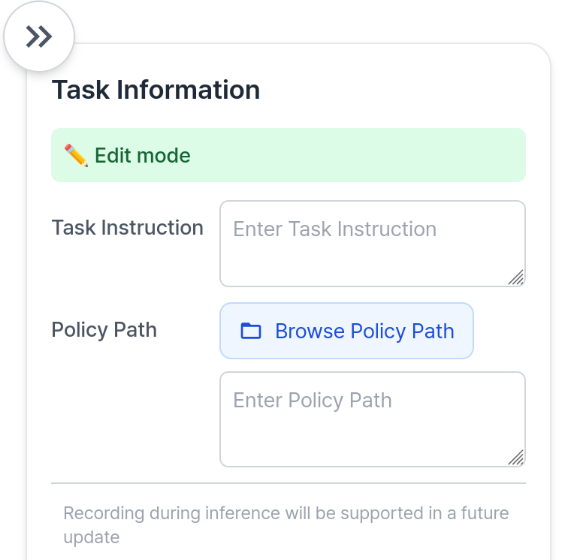
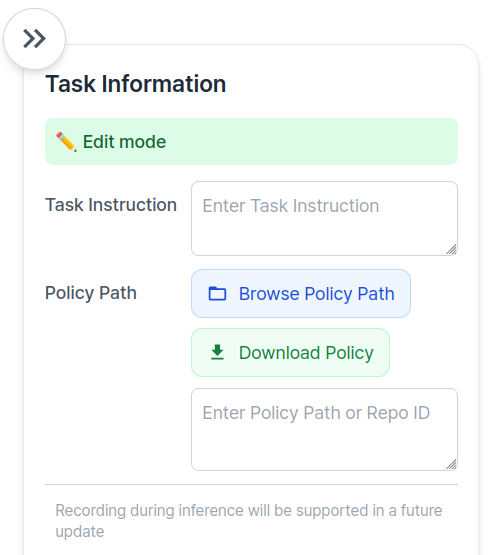
Add a guide for downloading a model from HF in Inference page

diff --git a/docs/ai_worker/model_inference_ai_worker.md b/docs/ai_worker/model_inference_ai_worker.md
@@ -6,13 +6,26 @@ Once your model is trained, you can deploy it on the AI Worker for inference.
 
 ### 1. Prepare Your Model
 
-`ROBOT PC`
+Choose one of the following methods.
+
+**`Option 1)` Download your model from Hugging Face**
+
+You can download a policy model from Hugging Face. 
+Detailed steps are provided [below](#download-policy-model).
+
+You can proceed to the next step: 👉 [2. Launch the ROS 2 Follower Node](#_2-launch-the-ros-2-follower-node)
+
+**`Option 2)` Manually copy your model to the target directory**
+
 
 Please place your trained model in the following directory:
 
+`ROBOT PC`
+
 `~/physical_ai_tools/lerobot/outputs/train/`
 
-Models trained on the Robot PC using Physical AI Tools are automatically saved to this path. However, if you downloaded the model from a hub or copied it from another PC, you need to move the model to this location. 
+Models trained on the Robot PC using Physical AI Tools are automatically saved to this path. 
+However, if you downloaded the model from a hub(without Physical AI Tools) or copied it from another PC, you need to move the model to this location. 
 
 
 ::: details Available Folder Structures
@@ -152,6 +165,33 @@ You can either click the `Browse Policy Path` button to select the desired model
 <img src="/imitation_learning/web_ui/inference/browse_button.png" alt="Web UI" style="width: 30%; ">
 <br>
 <img src="/imitation_learning/web_ui/inference/file_browser.png" alt="Web UI" style="width: 100%; ">
+:::
+
+<a id="download-policy-model"></a>
+::: tip
+**Download Policy Model from Hugging Face**
+
+You can download your model from Hugging Face. 
+
+Click the `Download Policy` button to open a popup for downloading a policy model. 
+
+  <img src="/imitation_learning/web_ui/inference/download_policy_button.png" alt="Web UI" style="width: 50%; ">
+  <br>
+  <img src="/imitation_learning/web_ui/inference/download_policy_modal.png" alt="Web UI" style="width: 70%; ">
+
+Select the Hugging Face User ID and enter the repository to download. 
+
+Click the `Download` button to start the download. A progress indicator will be displayed. 
+
+When the download completes, click `Finish` to close the popup. 
+
+The downloaded model path is automatically filled into Policy Path. 
+
+  <img src="/imitation_learning/web_ui/inference/downloaded_path_filled.png" alt="Web UI" style="width: 30%; ">
+
+
+💡 **Note — Progress indicator**: Progress is measured by the number of files completed. Policy models often include only a few very large files, so the progress bar may remain unchanged for a while.
+
 :::
 
 ::: info

diff --git a/docs/omx/model_inference_omx.md b/docs/omx/model_inference_omx.md
@@ -19,9 +19,20 @@ If you haven't set up the Physical AI Tools Docker container, please refer to th
 
 ### 2. Prepare Your Model
 
-`USER PC`
+Choose one of the following methods.
+
+**`Option 1)` Download your model from Hugging Face**
+
+You can download a policy model from Hugging Face. 
+Detailed steps are provided [below](#download-policy-model)
+
+You can proceed to the next step: 👉 [3. Bring up the OMX Follower Node](#_3-bring-up-the-omx-follower-node)
+
+**`Option 2)` Manually copy your model to the target directory**
 
 Please place your trained model in the following directory:
+
+`USER PC`
 
 `<your_workspace>/physical_ai_tools/lerobot/outputs/train/`
 
@@ -144,6 +155,33 @@ You can either click the `Browse Policy Path` button to select the desired model
 <img src="/imitation_learning/web_ui/inference/browse_button.png" alt="Web UI" style="width: 30%; ">
 <br>
 <img src="/imitation_learning/web_ui/inference/file_browser.png" alt="Web UI" style="width: 100%; ">
+:::
+
+<a id="download-policy-model"></a>
+::: tip
+**Download Policy Model from Hugging Face**
+
+You can download your model from Hugging Face. 
+
+Click the `Download Policy` button to open a popup for downloading a policy model. 
+
+  <img src="/imitation_learning/web_ui/inference/download_policy_button.png" alt="Web UI" style="width: 50%; ">
+  <br>
+  <img src="/imitation_learning/web_ui/inference/download_policy_modal.png" alt="Web UI" style="width: 70%; ">
+
+Select the Hugging Face User ID and enter the repository to download. 
+
+Click the `Download` button to start the download. A progress indicator will be displayed. 
+
+When the download completes, click `Finish` to close the popup. 
+
+The downloaded model path is automatically filled into Policy Path. 
+
+  <img src="/imitation_learning/web_ui/inference/downloaded_path_filled.png" alt="Web UI" style="width: 30%; ">
+
+
+💡 **Note — Progress indicator**: Progress is measured by the number of files completed. Policy models often include only a few very large files, so the progress bar may remain unchanged for a while.
+
 :::
 
 ::: info

diff --git a/docs/omy/model_inference_omy.md b/docs/omy/model_inference_omy.md
@@ -15,9 +15,20 @@ If you haven't set up the Physical AI Tools Docker container, please refer to th
 
 ### 2. Prepare Your Model
 
-`USER PC`
+Choose one of the following methods.
+
+**`Option 1)` Download your model from Hugging Face**
+
+You can download a policy model from Hugging Face. 
+Detailed steps are provided [below](#download-policy-model)
+
+You can proceed to the next step: 👉 [3. Bring up OMY Follower Node](#_3-bring-up-omy-follower-node)
+
+**`Option 2)` Manually copy your model to the target directory**
 
 Please place your trained model in the following directory:
+
+`USER PC`
 
 `<your_workspace>/physical_ai_tools/lerobot/outputs/train/`
 
@@ -140,6 +151,33 @@ You can either click the `Browse Policy Path` button to select the desired model
 <img src="/imitation_learning/web_ui/inference/browse_button.png" alt="Web UI" style="width: 30%; ">
 <br>
 <img src="/imitation_learning/web_ui/inference/file_browser.png" alt="Web UI" style="width: 100%; ">
+:::
+
+<a id="download-policy-model"></a>
+::: tip
+**Download Policy Model from Hugging Face**
+
+You can download your model from Hugging Face. 
+
+Click the `Download Policy` button to open a popup for downloading a policy model. 
+
+  <img src="/imitation_learning/web_ui/inference/download_policy_button.png" alt="Web UI" style="width: 50%; ">
+  <br>
+  <img src="/imitation_learning/web_ui/inference/download_policy_modal.png" alt="Web UI" style="width: 70%; ">
+
+Select the Hugging Face User ID and enter the repository to download. 
+
+Click the `Download` button to start the download. A progress indicator will be displayed. 
+
+When the download completes, click `Finish` to close the popup. 
+
+The downloaded model path is automatically filled into Policy Path. 
+
+  <img src="/imitation_learning/web_ui/inference/downloaded_path_filled.png" alt="Web UI" style="width: 30%; ">
+
+
+💡 **Note — Progress indicator**: Progress is measured by the number of files completed. Policy models often include only a few very large files, so the progress bar may remain unchanged for a while.
+
 :::
 
 ::: info
